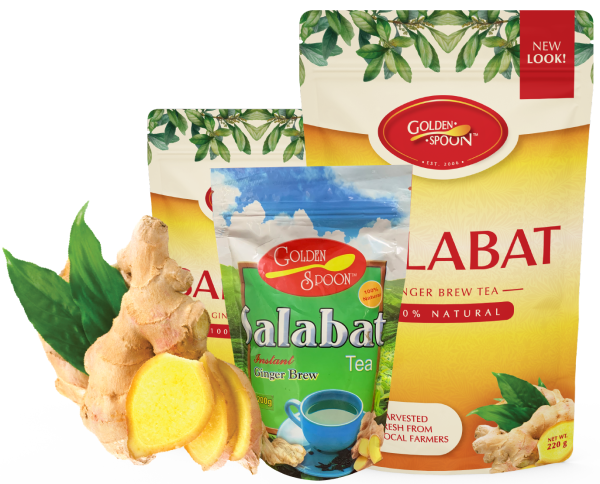
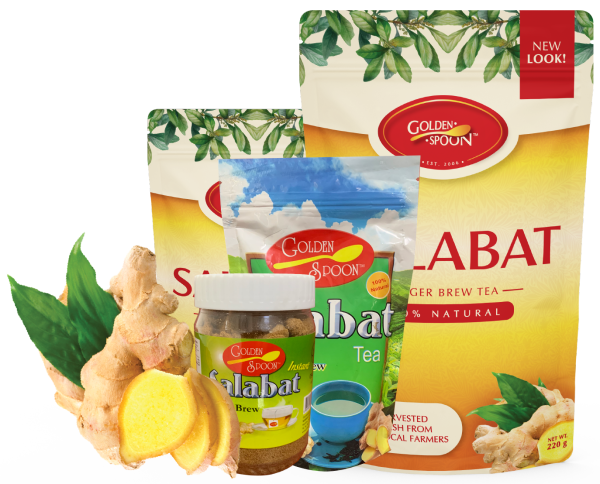
revised salabat images

Changed region(s): [[0.0, 0.3099, 0.72, 1.0]]

diff --git a/views/home.html b/views/home.html
@@ -23,7 +23,7 @@
 
     <!-- Custom CSS -->
     <link rel="stylesheet" href="/public/css/home.css">
-    
+
     <!-- Global site tag (gtag.js) - Google Analytics -->
     <script async src="https://www.googletagmanager.com/gtag/js?id=UA-143681013-1"></script>
     <script>
@@ -68,7 +68,7 @@
                 </div>
             </div>
         </nav>
-        
+
         <div class="fullscreen-video-wrapper">
             <video playsinline autoplay muted loop poster="/public/images/banner_image.jpg">
                 <source src="/public/images/banner_video.mp4">
@@ -104,7 +104,7 @@
                 <div class="row position-relative">
 
                     <div class="col-7 col-lg-6 order-0 order-lg-1 mx-auto d-flex align-items-end align-items-lg-center">
-                        <img src="/public/images/salabat.png" class="img-fluid" alt="salabat">
+                        <img src="/public/images/salabat1.png" class="img-fluid" alt="salabat">
                     </div>
 
                     <div class="col-12 col-lg-6 order-1 order-md-0 mx-auto mt-3 my-lg-auto">
@@ -158,7 +158,8 @@
                         </a>
                     </div>
 
-                    <img src="/public/images/leaves.png" class="leaves float-to-left-animation" style="right: 0;" alt="leaves">
+                    <img src="/public/images/leaves.png" class="leaves float-to-left-animation" style="right: 0;"
+                        alt="leaves">
                 </div>
         </section>
 
@@ -203,7 +204,8 @@
 
                         <!-- Clients Heading Text Image -->
                         <div class="col-12 col-md-8 col-lg-6 mx-auto mb-5">
-                            <img src="/public/images/clients_text_image.png" class="img-fluid" alt="We are trusted by the best!">
+                            <img src="/public/images/clients_text_image.png" class="img-fluid"
+                                alt="We are trusted by the best!">
                         </div>
 
                         <div class="main-gallery">
@@ -341,10 +343,11 @@
             <div class="row align-items-center justify-content-center position-relative">
                 <div class="col-12 red text-center">
                     <h1 class="heading-text">We'd love to hear from you.</h1>
-                    <button class="btn round heading-button red-bg mt-3">
-                        <h2 class="cream">TALK TO US</h2>
-                    </button>
-                    <br>
+                    <a href="/contact">
+                        <button class="btn round heading-button red-bg mt-3">
+                            <h2 class="cream">TALK TO US</h2>
+                        </button>
+                    </a>
                 </div>
 
                 <nav class="navbar navbar-expand d-none d-md-block bottom">

diff --git a/views/products.html b/views/products.html
@@ -110,7 +110,7 @@
             <div class="row justify-content-center">
                 <div class="col-12 col-sm-10 col-lg-6 text-center my-auto">
                     <a href="/products/salabat">
-                        <img src="/public/images/salabat_products.png" class="img-fluid product-image" alt="salabat products">
+                        <img src="/public/images/salabat3.png" class="img-fluid product-image" alt="salabat products">
                     </a>
                 </div>
                 <div class="col-12 col-lg-4 text-center my-lg-auto">
@@ -277,10 +277,11 @@
             <div class="row align-items-center justify-content-center position-relative">
                 <div class="col-12 red text-center">
                     <h1 class="heading-text">We'd love to hear from you.</h1>
-                    <button class="btn round heading-button red-bg mt-3">
-                        <h2 class="cream">TALK TO US</h2>
-                    </button>
-                    <br>
+                    <a href="/contact">
+                        <button class="btn round heading-button red-bg mt-3">
+                            <h2 class="cream">TALK TO US</h2>
+                        </button>
+                    </a>
                 </div>
 
                 <nav class="navbar navbar-expand d-none d-md-block bottom">

diff --git a/public/css/product-details.css b/public/css/product-details.css
@@ -266,7 +266,7 @@ footer a.nav-link {
 
 .header-product-wrapper > img {
 	position: absolute;
-	width: 400px;
+	width: 500px;
 	bottom: -50px;
 	right: 0%;
 	transform: scale(0.95);
@@ -330,6 +330,9 @@ footer a.nav-link {
 
 /* Large devices (desktops, less than 1200px) */
 @media (max-width: 1199.98px) {
+	.header-product-wrapper > img {
+		width: 425px;
+	}
 }
 
 /* Medium devices (tablets, less than 992px) */
@@ -382,7 +385,7 @@ footer a.nav-link {
 	}
 
 	.header-product-wrapper > img {
-		width: 250px;
+		width: 275px;
 		bottom: -30px;
 	}
 
@@ -435,7 +438,7 @@ footer a.nav-link {
 	}
 
 	.header-product-wrapper > img {
-		width: 200px;
+		width: 250px;
 		bottom: -20px;
 	}
 
@@ -456,6 +459,6 @@ footer a.nav-link {
 	}
 
 	.header-product-wrapper > img {
-		width: 180px;
+		width: 200px;
 	}
 }

diff --git a/views/products/salabat.html b/views/products/salabat.html
@@ -90,7 +90,7 @@
 
             <!-- Absolutely Positioned -->
             <div class="header-product-wrapper">
-                <img src="/public/images/salabat_products2.png" alt="salabat">
+                <img src="/public/images/salabat4.png" alt="salabat">
             </div>
         </div>
     </header>
